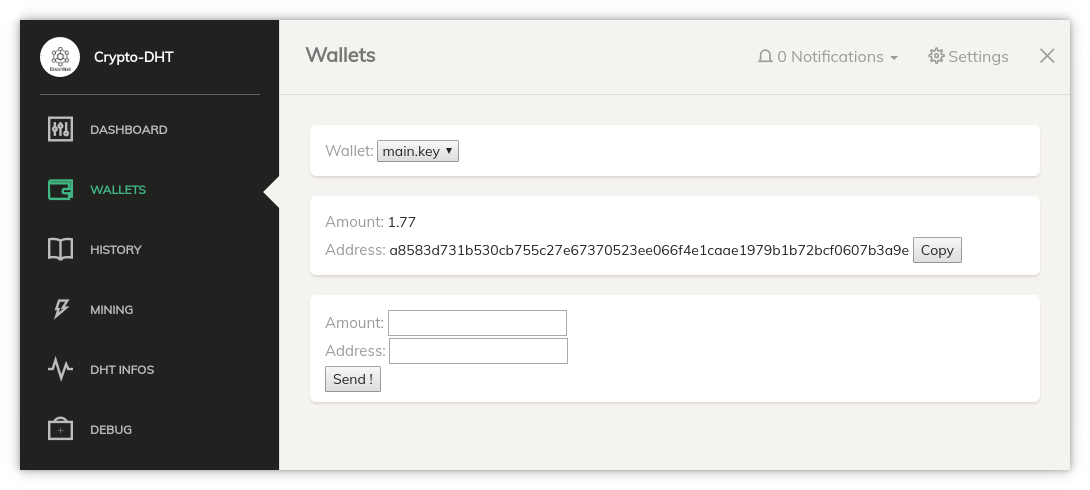
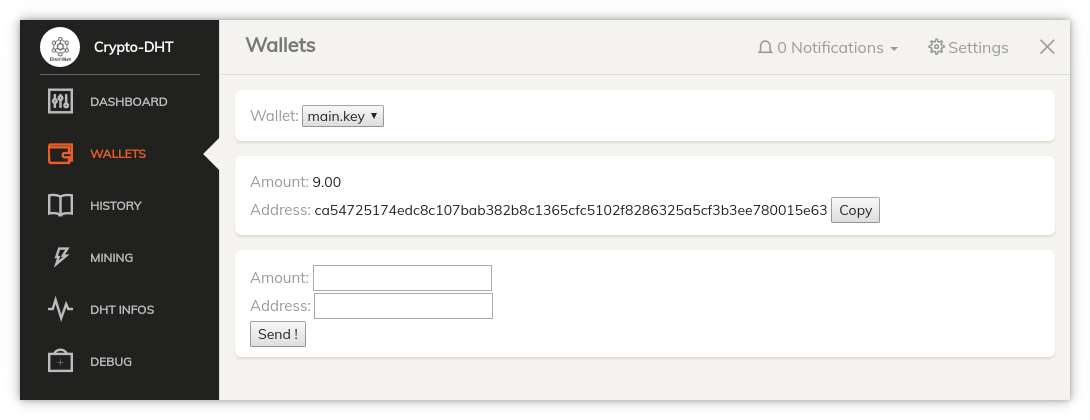
better ui

diff --git a/client/src/components/UIComponents/SidebarPlugin/SideBar.vue b/client/src/components/UIComponents/SidebarPlugin/SideBar.vue
@@ -8,9 +8,9 @@
     <div class="sidebar-wrapper" id="style-3">
       <div class="logo">
         <a href="#" class="simple-text">
-            <div class="logo-img">
-                <img src="static/img/logo2.png" alt="">
-            </div>
+          <div class="logo-img">
+            <img src="static/img/logo2.png" alt="">
+          </div>
           Crypto-DHT
         </a>
       </div>
@@ -56,7 +56,7 @@
       },
       activeColor: {
         type: String,
-        default: 'success',
+        default: 'danger',
         validator: (value) => {
           let acceptedValues = ['primary', 'info', 'success', 'warning', 'danger']
           return acceptedValues.indexOf(value) !== -1
@@ -95,12 +95,12 @@
     },
     data () {
       return {
-        linkHeight: 60,
+        linkHeight: 52,
         activeLinkIndex: 0,
 
         windowWidth: 0,
-        isWindows: false,
-        hasAutoHeight: false
+        isWindows: true,
+        hasAutoHeight: true
       }
     },
     methods: {

diff --git a/client/src/assets/sass/paper/_variables.scss b/client/src/assets/sass/paper/_variables.scss
@@ -161,7 +161,7 @@ $transition-linear: linear !default;
 $transition-bezier: cubic-bezier(0.34, 1.61, 0.7, 1) !default;
 $transition-ease: ease 0s;
 
-$navbar-padding-a: 10px 15px;
+$navbar-padding-a: 1px 15px;
 $navbar-margin-a: 15px 0px;
 
 $padding-social-a: 10px 5px;
@@ -169,8 +169,8 @@ $padding-social-a: 10px 5px;
 $navbar-margin-a-btn: 15px 3px;
 $navbar-margin-a-btn-round: 16px 3px;
 
-$navbar-padding-brand: 20px 15px;
-$navbar-margin-brand: 5px 0px;
+$navbar-padding-brand: 15px 15px;
+$navbar-margin-brand: 0px 0px;
 
 $navbar-margin-brand-icons: 12px auto;
 
@@ -219,7 +219,7 @@ $select-coordinates: 50% -40px !default;
 
 $padding-zero: 0px !default;
 
-$sidebar-width: calc(100% - 260px) !default;
+$sidebar-width: calc(100% - 200px) !default;
 $medium-dark-gray: #AAAAAA !default;
 
 //variables used in cards

diff --git a/client/src/routes/routes.js b/client/src/routes/routes.js
@@ -14,6 +14,7 @@ import Wallets from 'src/components/Dashboard/Views/Wallets.vue'
 import History from 'src/components/Dashboard/Views/History.vue'
 import Mining from 'src/components/Dashboard/Views/Mining.vue'
 import Dht from 'src/components/Dashboard/Views/Dht.vue'
+import Debug from 'src/components/Dashboard/Views/Debug.vue'
 
 const routes = [
   {
@@ -50,12 +51,12 @@ const routes = [
         path: 'dht',
         name: 'dht',
         component: Dht
+      },
+      {
+        path: 'debug',
+        name: 'debug',
+        component: Debug
       }
-      // {
-      //   path: 'typography',
-      //   name: 'typography',
-      //   component: Typography
-      // },
       // {
       //   path: 'table-list',
       //   name: 'table-list',

diff --git a/client/src/assets/sass/paper/_sidebar-and-main-panel.scss b/client/src/assets/sass/paper/_sidebar-and-main-panel.scss
@@ -11,7 +11,7 @@
     height: 100%;
     overflow-y: auto;
     overflow-x: hidden;
-    width: 260px;
+    width: 200px;
     z-index: 4;
     box-shadow: inset -1px 0px 0px 0px $medium-gray;
   }
@@ -31,12 +31,12 @@
 
 .sidebar,
 .off-canvas-sidebar {
-  width: 260px;
+  width: 200px;
   display: block;
   font-weight: 200;
 
   .logo {
-    padding: 13px 0;
+    padding: 3px 0;
     margin: 0 20px;
 
     p {
@@ -77,7 +77,7 @@
 
     li {
       > a {
-        margin: 10px 0px;
+        margin: 2px 0px;
         padding-left: 25px;
         padding-right: 25px;
 
@@ -163,7 +163,7 @@
   min-height: 100%;
 
   > .content {
-    padding: 30px 15px;
+    padding: 15px 0px;
     min-height: calc(100% - 123px);
   }
 

diff --git a/client/src/assets/sass/paper/_responsive.scss b/client/src/assets/sass/paper/_responsive.scss
@@ -1,10 +1,10 @@
 @media (min-width: 992px) {
   .navbar {
-    min-height: 75px;
+    min-height: 40px;
   }
   .navbar-form {
-    margin-top: 21px;
-    margin-bottom: 21px;
+    margin-top: 15px;
+    margin-bottom: 15px;
     padding-left: 5px;
     padding-right: 5px;
   }

diff --git a/client/src/components/UIComponents/SidebarPlugin/MovingArrow.vue b/client/src/components/UIComponents/SidebarPlugin/MovingArrow.vue
@@ -33,8 +33,8 @@
     border-bottom: 17px solid transparent;
     display: inline-block;
     position: absolute;
-    left: 243px;
-    top: 95px;
+    left: 183px;
+    top: 65px;
     transition: all 0.5s cubic-bezier(0.29, 1.42, 0.79, 1);
   }
 </style>

diff --git a/client/src/components/Dashboard/Views/Debug.vue b/client/src/components/Dashboard/Views/Debug.vue
@@ -1,0 +1,16 @@
+<template>
+    <div class="row">
+      <div class="col-lg-4 col-md-5">
+      </div>
+    </div>
+</template>
+<script>
+  export default {
+    components: {
+    }
+  }
+
+</script>
+<style>
+
+</style>

diff --git a/client/src/assets/sass/paper/_cards.scss b/client/src/assets/sass/paper/_cards.scss
@@ -3,7 +3,7 @@
   box-shadow: 0 2px 2px rgba(204, 197, 185, 0.5);
   background-color: #FFFFFF;
   color: $card-black-color;
-  margin-bottom: 20px;
+  margin-bottom: 15px;
   position: relative;
   z-index: 1;
 

diff --git a/client/src/main.js b/client/src/main.js
@@ -37,7 +37,7 @@ Object.defineProperty(Vue.prototype, '$Chartist', {
   }
 })
 
-// /* eslint-disable no-new */
+/* eslint-disable no-new */
 // new Vue({
 //   el: '#app',
 //   render: h => h(App),

diff --git a/gui.go b/gui.go
@@ -124,7 +124,7 @@ func gui(bc_ *blockchain.Blockchain) {
 		WindowOptions: &astilectron.WindowOptions{
 			BackgroundColor: astilectron.PtrStr("#333"),
 			Center:          astilectron.PtrBool(true),
-			Height:          astilectron.PtrInt(450),
+			Height:          astilectron.PtrInt(380),
 			Width:           astilectron.PtrInt(1050),
 			Resizable:       astilectron.PtrBool(false),
 			Frame:           astilectron.PtrBool(false),
